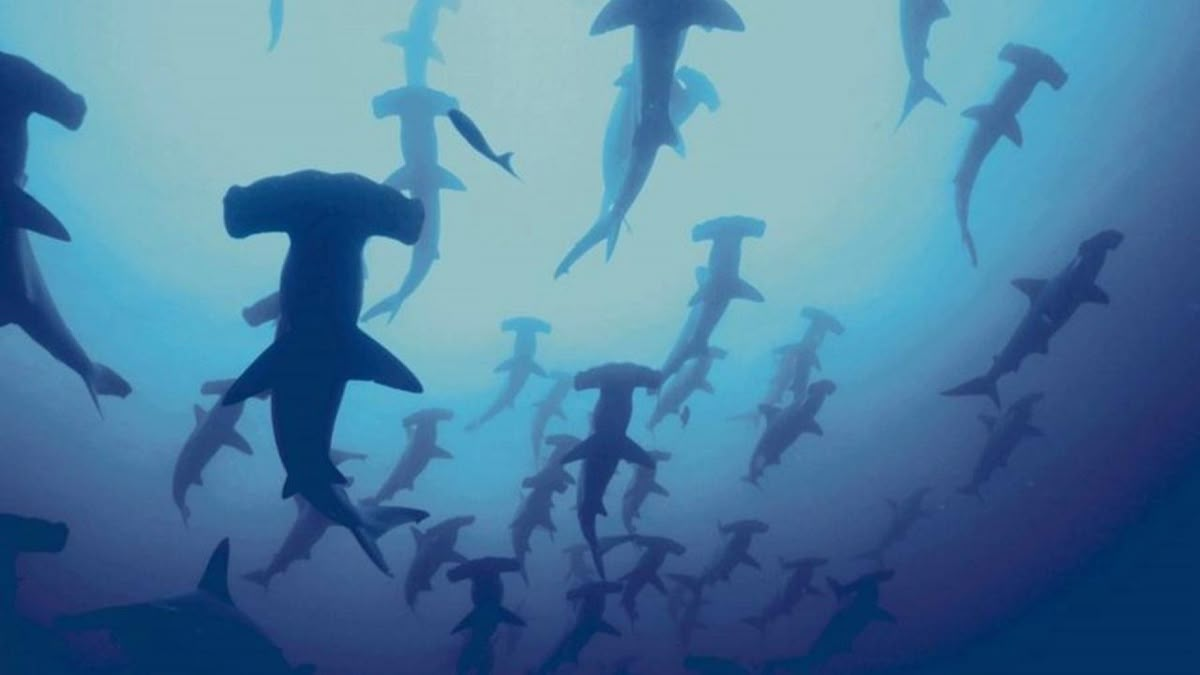
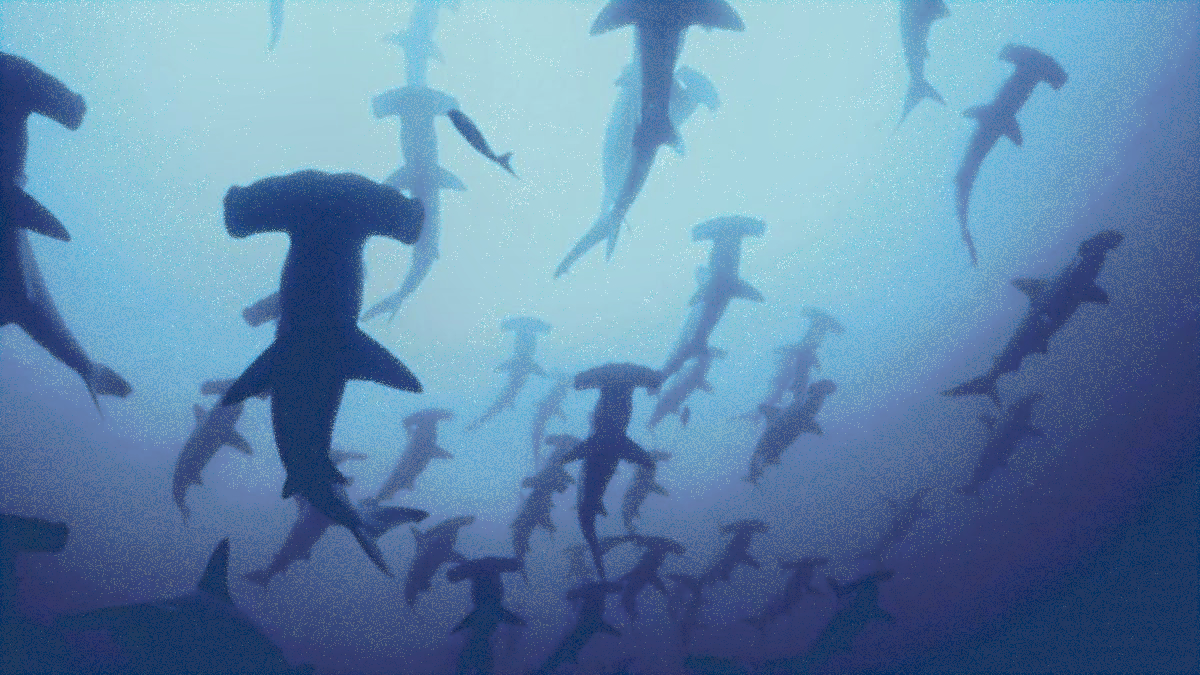
tweaked bg

diff --git a/src/css/style.css b/src/css/style.css
@@ -163,7 +163,7 @@
   background-size: 100%;
 
   z-index: -10;
-  filter: blur(3px) brightness(50%);
+  filter: blur(1px) brightness(80%);
 }
 
 #main-title {
